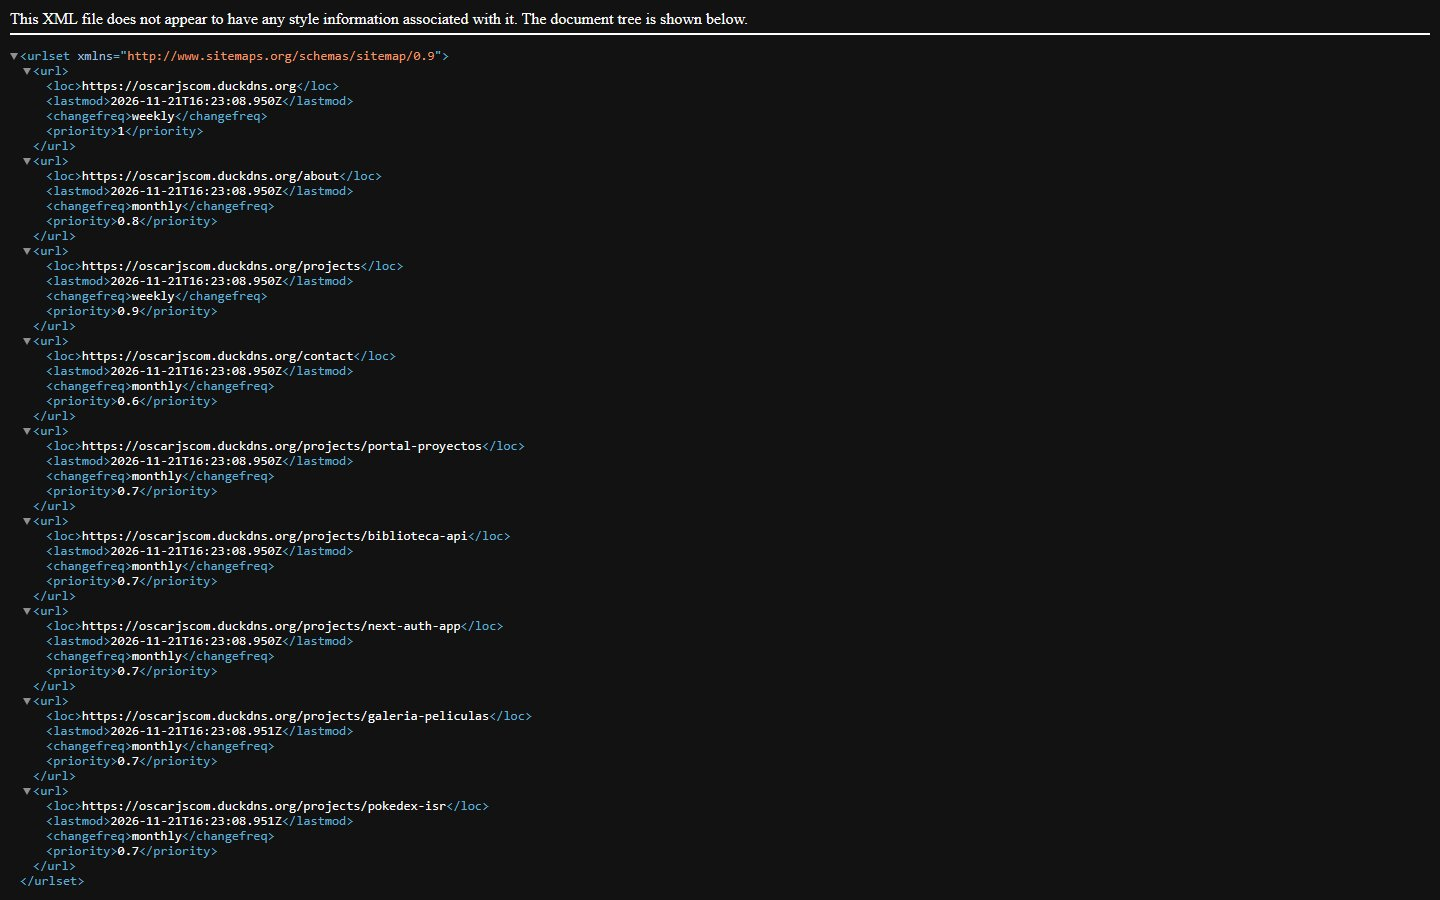
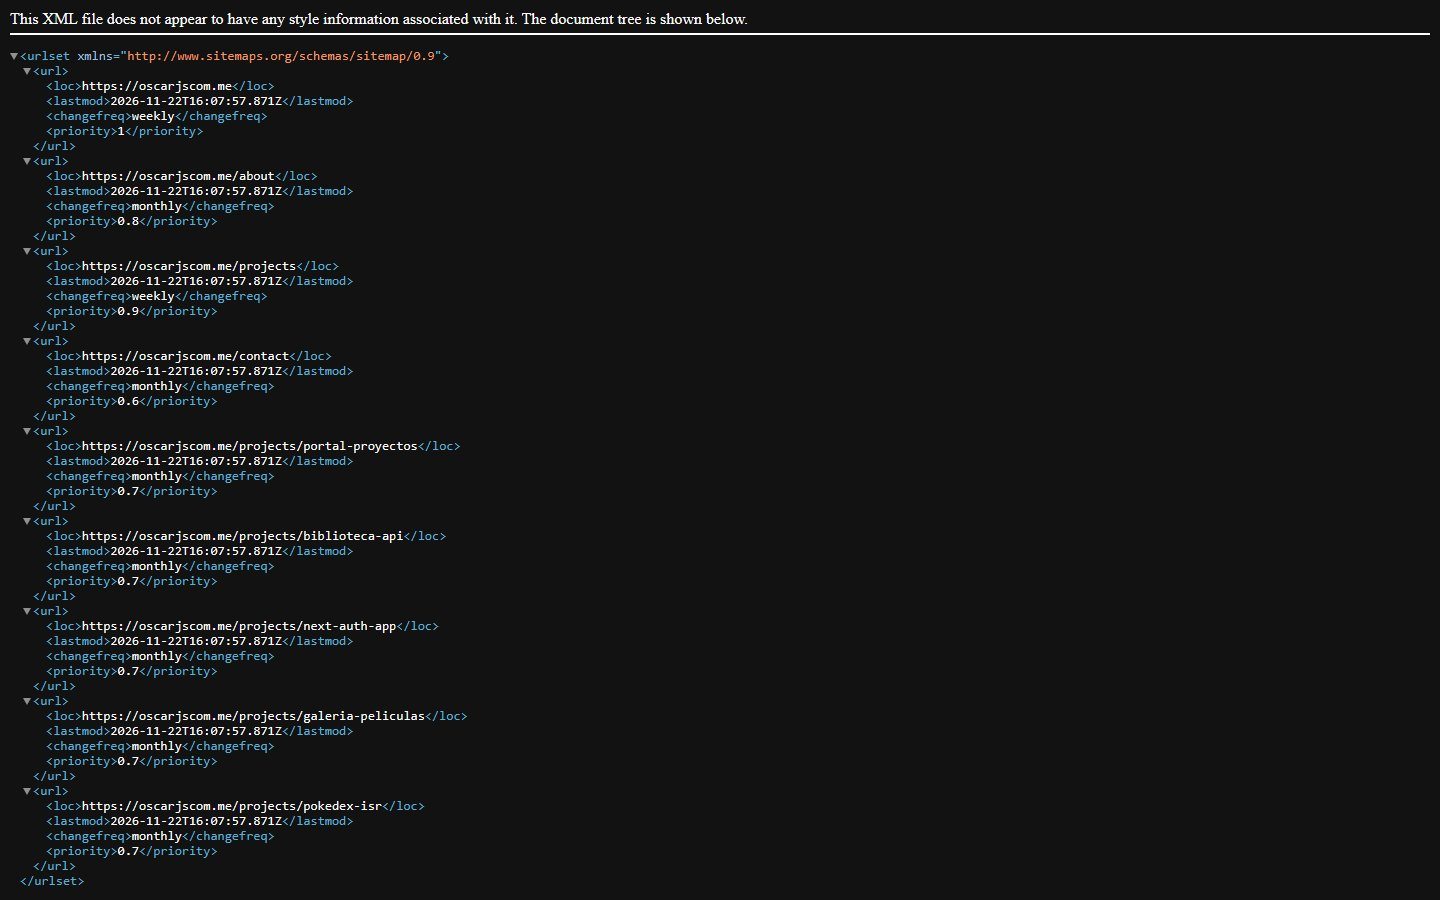
Semana 14 - Tarea: Dominio propio oscarjscom.me asociado en Vercel
Conseguí el dominio oscarjscom.me gratis por un año con el GitHub Student Developer Pack, lo apunté a Vercel con un registro A, cambié siteUrl para que el sitemap, el robots y los meta tags usen el dominio nuevo y actualicé las capturas y el README.

diff --git a/semana-14/my-portfolio/src/lib/data.ts b/semana-14/my-portfolio/src/lib/data.ts
@@ -65,6 +65,6 @@ export const personalInfo = {
   description:
     'Estudiante de Tecsup que crea aplicaciones web modernas con Next.js, React y bases de datos en la nube',
   github: 'https://github.com/oscarjscom',
-  siteUrl: process.env.NEXT_PUBLIC_SITE_URL ?? 'https://oscarjscom.duckdns.org',
+  siteUrl: process.env.NEXT_PUBLIC_SITE_URL ?? 'https://oscarjscom.me',
   avatar: 'https://avatars.githubusercontent.com/u/229425953?v=4',
 };

diff --git a/semana-14/README.md b/semana-14/README.md
@@ -71,7 +71,7 @@ Auditoría de la versión de producción (`npm run build` y `npm start`), con el
 
 ## Tarea · Contacto, sitemap, robots y dominio propio
 
-**Sitio en producción:** https://oscarjscom.duckdns.org  
+**Sitio en producción:** https://oscarjscom.me  
 (alias de Vercel: https://my-portfolio-kappa-lake-50.vercel.app)
 
 ### Qué se hizo
@@ -81,7 +81,7 @@ Auditoría de la versión de producción (`npm run build` y `npm start`), con el
 | **Actualizar `sitemap.xml`** | Se agregó `/contact` junto a las páginas fijas y a los proyectos | `src/app/sitemap.ts` |
 | **Actualizar `robots.txt`** | Permite `/` y `/contact`, bloquea `/api/`, `/admin/` y `/_next/`, e indica el `Sitemap` y el `Host` del dominio | `src/app/robots.ts` |
 | **Desplegar en Vercel** | Despliegue de producción del proyecto `my-portfolio` | `.vercelignore` |
-| **Dominio gratuito** | Subdominio `oscarjscom.duckdns.org` creado en DuckDNS (Freenom ya no existe), apuntado a Vercel con un registro A y agregado en Settings → Domains; `www` redirige al dominio principal. Vercel emite el certificado HTTPS | Capturas 15 a 18 |
+| **Dominio gratuito** | Dominio `oscarjscom.me` obtenido gratis por un año con el GitHub Student Developer Pack (Namecheap; Freenom ya no existe), con la renovación automática desactivada. En Namecheap se dejó un registro A hacia Vercel; en Vercel (Settings → Domains) se asoció al proyecto y `www` redirige al dominio principal. Vercel emite el certificado HTTPS | Capturas 15 a 19 |
 
 La dirección del sitio sale de un solo lugar, `siteUrl` en `src/lib/data.ts`, y de ahí se alimentan los meta tags, el sitemap y el robots, así que al cambiar de dominio no hay que tocar nada más.
 
@@ -95,10 +95,11 @@ El formulario valida y registra el mensaje en el servidor, pero no envía correo
 | Mensaje enviado correctamente | <img src="capturas/12_contacto_enviado.jpg" width="440"> |
 | `sitemap.xml` actualizado (con `/contact`) en el dominio propio | <img src="capturas/13_sitemap_actualizado.jpg" width="440"> |
 | `robots.txt` actualizado en el dominio propio | <img src="capturas/14_robots_actualizado.jpg" width="440"> |
-| DuckDNS: `oscarjscom.duckdns.org` apuntando a Vercel | <img src="capturas/15_duckdns_dominio.png" width="440"> |
-| Vercel: dominios asociados al proyecto | <img src="capturas/16_vercel_dominios.png" width="440"> |
-| Portafolio en `oscarjscom.duckdns.org` | <img src="capturas/17_dominio_sitio.jpg" width="440"> |
-| Etiquetas del `<head>` con el dominio propio | <img src="capturas/18_dominio_meta_tags.jpg" width="440"> |
+| Namecheap: `oscarjscom.me` activo, gratis, sin renovación automática | <img src="capturas/15_namecheap_dominio.png" width="440"> |
+| Namecheap (Advanced DNS): registro A hacia Vercel | <img src="capturas/16_namecheap_dns.png" width="440"> |
+| Vercel: dominios asociados al proyecto | <img src="capturas/17_vercel_dominios.png" width="440"> |
+| Portafolio funcionando en `oscarjscom.me` | <img src="capturas/18_dominio_sitio.jpg" width="440"> |
+| Etiquetas del `<head>` con el dominio propio | <img src="capturas/19_dominio_meta_tags.jpg" width="440"> |
 
 ---
 
@@ -112,8 +113,8 @@ npm start
 ```
 
 ## Notas
-- La dirección pública del sitio (`https://oscarjscom.duckdns.org`) está en `siteUrl` (`src/lib/data.ts`) y se puede cambiar con la variable `NEXT_PUBLIC_SITE_URL`. De ahí salen la URL base de los meta tags, el sitemap y el `robots.txt`.
+- La dirección pública del sitio (`https://oscarjscom.me`) está en `siteUrl` (`src/lib/data.ts`) y se puede cambiar con la variable `NEXT_PUBLIC_SITE_URL`. De ahí salen la URL base de los meta tags, el sitemap y el `robots.txt`.
 - Las imágenes de los proyectos son capturas de las aplicaciones de las semanas anteriores, guardadas en `public/projects`. La foto de perfil se carga desde GitHub, un dominio externo autorizado en `next.config.ts`.
 - No se publican datos de contacto personales en el sitio.
 - Las capturas y la auditoría se tomaron con la versión de producción en el puerto 3140, porque el 3000 estaba ocupado por otra aplicación.
-- Vercel recomienda cambiar el registro A del dominio a `216.198.79.1`; esa IP no respondió desde mi red, así que el dominio se dejó con `76.76.21.21`, que sí funciona.
+- Vercel recomienda cambiar el registro A del dominio a `216.198.79.1`; esa IP no respondió desde mi red, así que se dejó `76.76.21.21`, que sí funciona.

diff --git a/semana-14/my-portfolio/README.md b/semana-14/my-portfolio/README.md
@@ -1,6 +1,6 @@
 # my-portfolio · Portafolio personal con SEO
 
-Portafolio hecho con Next.js (https://oscarjscom.duckdns.org), con meta tags dinámicos, Open Graph, imágenes optimizadas, `sitemap.xml` y `robots.txt`.
+Portafolio hecho con Next.js (https://oscarjscom.me), con meta tags dinámicos, Open Graph, imágenes optimizadas, `sitemap.xml` y `robots.txt`.
 
 | Parte | Archivos |
 |---|---|
